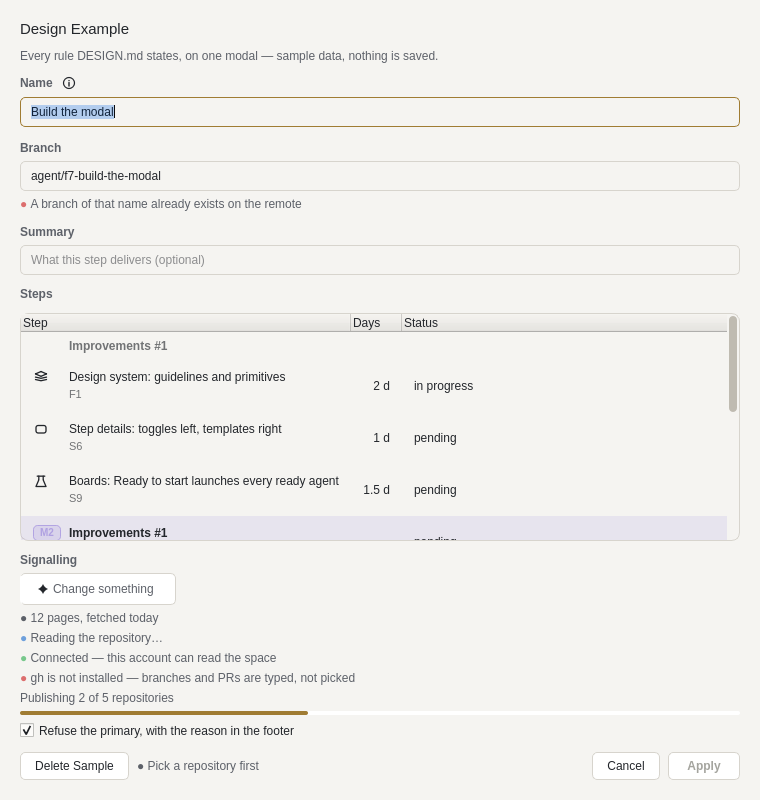
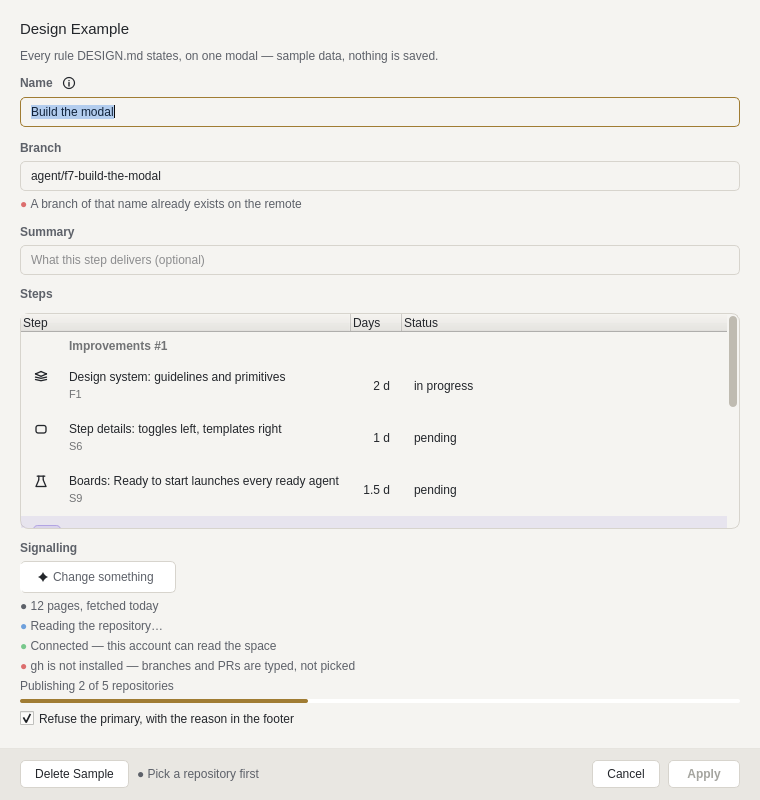
A dialog's footer is a band: the elevated ground under a faint hairline, edge to edge
DialogFrame puts the title, lead and body on a page that carries the dialog's margins and
the footer below it as a full-width band — #DialogFooter on $BG_ELEVATED under a
$BORDER_FAINT hairline, its buttons 12 px inside. The one place a dialog has a second
ground, so the eye finds the way out without reading; every dialog on the frame inherits
it, and the render test asserts the band's ground and its width.

Claude-Session: https://claude.ai/code/session_01Uf6cn28apaTnQtKhg87aU2

Changed region(s): [[0.0303, 0.6562, 0.4539, 1.0], [0.7868, 0.9375, 0.9684, 1.0], [0.5447, 0.6562, 0.6053, 0.6875]]

diff --git a/src/dplanner/framework/dialog.py b/src/dplanner/framework/dialog.py
@@ -58,7 +58,14 @@ class DialogFrame(QDialog):
         editor: bool = False,
     ) -> None:
         super().__init__(parent)
-        column = QVBoxLayout(self)
+        outer = QVBoxLayout(self)
+        outer.setContentsMargins(0, 0, 0, 0)
+        outer.setSpacing(0)
+        # The page carries the dialog's margins; the footer is a band below it, edge to
+        # edge, with its own — so its ground can run the dialog's full width.
+        self.page = QWidget(self)
+        outer.addWidget(self.page, 1)
+        column = QVBoxLayout(self.page)
         column.setContentsMargins(DIALOG_MARGIN, DIALOG_MARGIN, DIALOG_MARGIN, DIALOG_MARGIN)
         column.setSpacing(SECTION_GAP)
 
@@ -82,14 +89,17 @@ class DialogFrame(QDialog):
 
         self.footer = QWidget(self)
         self.footer.setObjectName("DialogFooter")
+        self.footer.setAttribute(Qt.WidgetAttribute.WA_StyledBackground)  # Or no ground.
         self.footer_layout = QHBoxLayout(self.footer)
-        self.footer_layout.setContentsMargins(0, 0, 0, 0)
+        self.footer_layout.setContentsMargins(
+            DIALOG_MARGIN, SECTION_GAP, DIALOG_MARGIN, SECTION_GAP
+        )
         self.footer_layout.setSpacing(FIELD_GAP)
         self.status = StatusLine(self.footer)
         self.footer_layout.addWidget(self.status)
         self.footer_layout.addStretch(1)
         self.footer.hide()  # Until a button arrives: a live-edit dialog never shows one.
-        column.addWidget(self.footer)
+        outer.addWidget(self.footer)
 
         self._destructive: list[QPushButton] = []
         self._secondaries: list[QPushButton] = []

diff --git a/tests/framework/test_dialog.py b/tests/framework/test_dialog.py
@@ -192,6 +192,11 @@ def test_the_primary_wears_the_accent_and_the_others_are_quiet(themed, theme):
         image = dialog.grab().toImage()
         assert image.pixelColor(inside(primary, dialog)) == QColor(theme.accent)
         assert image.pixelColor(inside(cancel, dialog)) == QColor(theme.bg_overlay)
+        # The footer is a band on the elevated ground, the page above it on the base.
+        band = dialog.footer.mapTo(dialog, QPoint(dialog.footer.width() // 2, 4))
+        assert image.pixelColor(band) == QColor(theme.bg_elevated)
+        assert image.pixelColor(QPoint(band.x(), band.y() - 12)) == QColor(theme.bg_base)
+        assert dialog.footer.width() == dialog.width()  # Edge to edge.
     finally:
         dialog.deleteLater()
 

diff --git a/NOTES-FOR-APPFRAME.md b/NOTES-FOR-APPFRAME.md
@@ -2471,8 +2471,10 @@ inside `apply_theme`; `QApplication` is a `TYPE_CHECKING` import.
 
 **What.** A `QDialog` with the anatomy DESIGN.md's *Dialogs* names: the title printed in
 the body (`#DialogTitle`, +2 pt via `theme.cards.title_font`), a lead (`#DialogLead`), a
-body (`#DialogBody`, a `QVBoxLayout` the subclass fills) and a footer (`#DialogFooter`)
-whose slots run destructive · status · stretch · secondaries · dismiss · primary.
+body (`#DialogBody`, a `QVBoxLayout` the subclass fills) inside a page that carries the
+dialog's margins, and below it a footer band (`#DialogFooter`, edge to edge on the elevated
+ground under a faint hairline) whose slots run destructive · status · stretch · secondaries
+· dismiss · primary.
 `set_primary`, `add_button(destructive=)`, `add_dismiss`, `refuse(reason)`; the dismiss is
 default only while there is no primary; Ctrl+Enter is the primary from a multi-line field;
 `showEvent` sets the Tab chain (body → primary → secondaries → destructive) and puts focus

diff --git a/DESIGN.md b/DESIGN.md
@@ -262,7 +262,9 @@ Every dialog is a `DialogFrame` (`framework/dialog.py`), and its anatomy is the 
   platform's type at the platform's size; the window title is set too, for the switcher.
   The lead is one secondary line saying what *this* dialog is about, with the thing's name
   in it (*"Build the modal" waits on 2 steps not done yet*) — never a standing definition,
-  which is *Words*' rule. Then the body, then the footer 12 px under it and no rule.
+  which is *Words*' rule. Then the body, then **the footer as a band**, edge to edge below
+  the page: the elevated ground under a faint hairline, its buttons 12 px inside it. It is
+  the one place a dialog has a second ground, so the eye finds the way out without reading.
 - **Footer slots, left to right: destructive · status · stretch · secondaries · Cancel ·
   primary.** The destructive verb is a different exit that costs something (*Quit Without
   Committing*, *Delete*), never an answer to the question; the far left is as far from the
